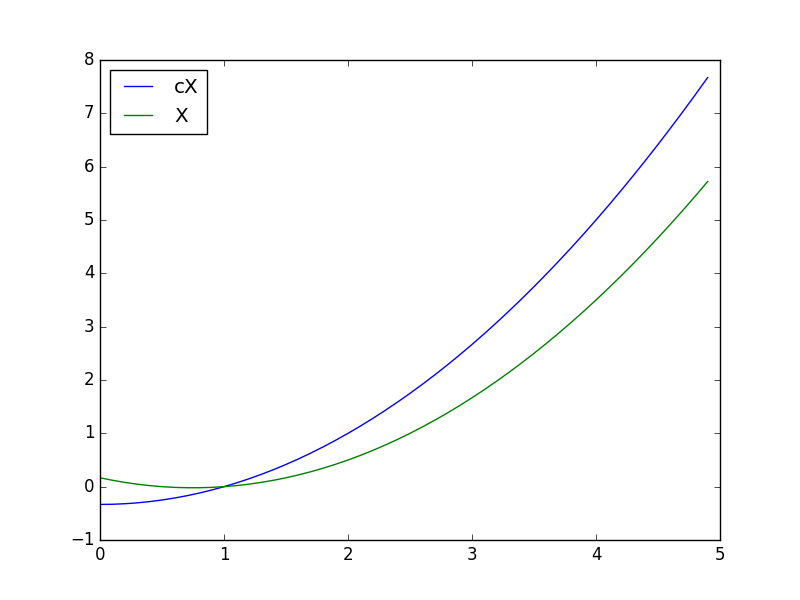
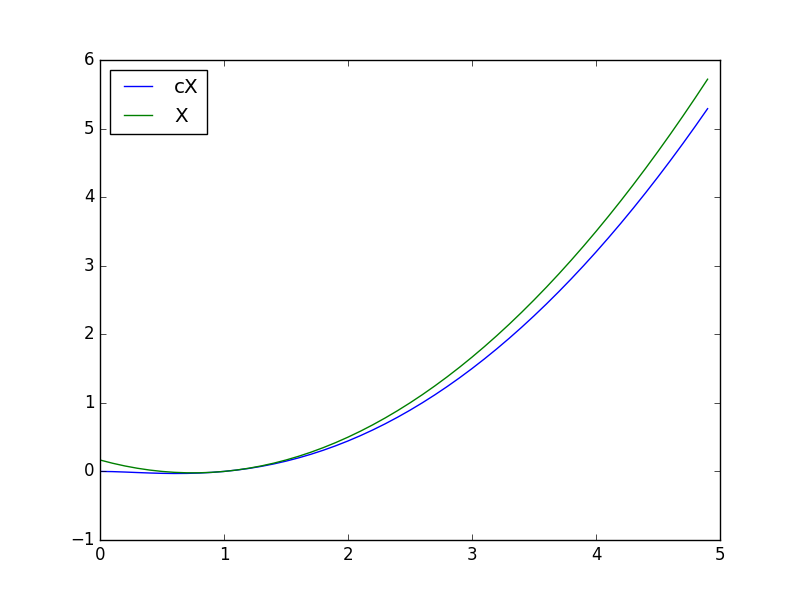
updates to hw

diff --git a/week5/hw4.tex b/week5/hw4.tex
@@ -360,15 +360,15 @@ B(\hat{\theta}) &= E(X) - \theta\\
 
 $c = \frac{2 \theta}{1 + \theta}$
 
-Just a reminder, bias is $0$ so just find variance.
+Just \marginnote{The MSE may not be right since when $\theta<1$ MSE is negative} a reminder, bias is $0$ so just find variance.
 \begin{align*}
 \MSE(cX) &= c^2\Var(X)\\
-&=  \frac{\theta^2 -1}{3}
+&=  \frac{\theta^3 -\theta^2}{3(1+\theta)}
 \end{align*}
 
 \item Among all the estimates of $\theta$ of the form $cX$, is there a choice of $c$ that minimizes the resulting MSE for all $\theta$.  If yes, find the value of $c$. If not, explain why not.
 
-There is not.  Since, $c$ is a function of $\theta$ and we observe that our baised estimate of $\theta$ has a smaller mse than $cX$,  there is no way to minimize mse for all $\theta$.  The graph below shows that when $\theta$ is less than $1$ $cX$ does better, however as $\theta$ increases, $X$ starts to get better.
+There is not.  Since, changing the value of $c$ for MSE, will depend on the value of $\theta$.  Considering the previous items, there is an issue when $\theta <1$ because MSE should not be negative.  However, when $\theta>1$ our unbaised $cX$ begins to do better.  The graph below shows that when $\theta$ is less than $1$ $cX$ does better, however as $\theta$ increases, $X$ starts to get better.  Suggesting there is no way to minimize mse for all $\theta$.
 
 \includegraphics{q7}
 

diff --git a/week5/q7.py b/week5/q7.py
@@ -2,8 +2,8 @@ import numpy as np
 import matplotlib.pyplot as plt
 
 def cX(t):
-    num = t*t - 1
-    denom = 3
+    num = t*t*t - t*t
+    denom = 3 * (1 + t)
     return num/denom
 
 def X(t):
@@ -11,7 +11,7 @@ def X(t):
     denom = 6
     return num/denom
 
-t1 = np.arange(0.0, 5.0, 0.1)
+t1 = np.arange(0.0, 20.0, 0.1)
 
 plt.plot(t1, cX(t1), label="cX")
 plt.plot(t1, X(t1), label="X")
